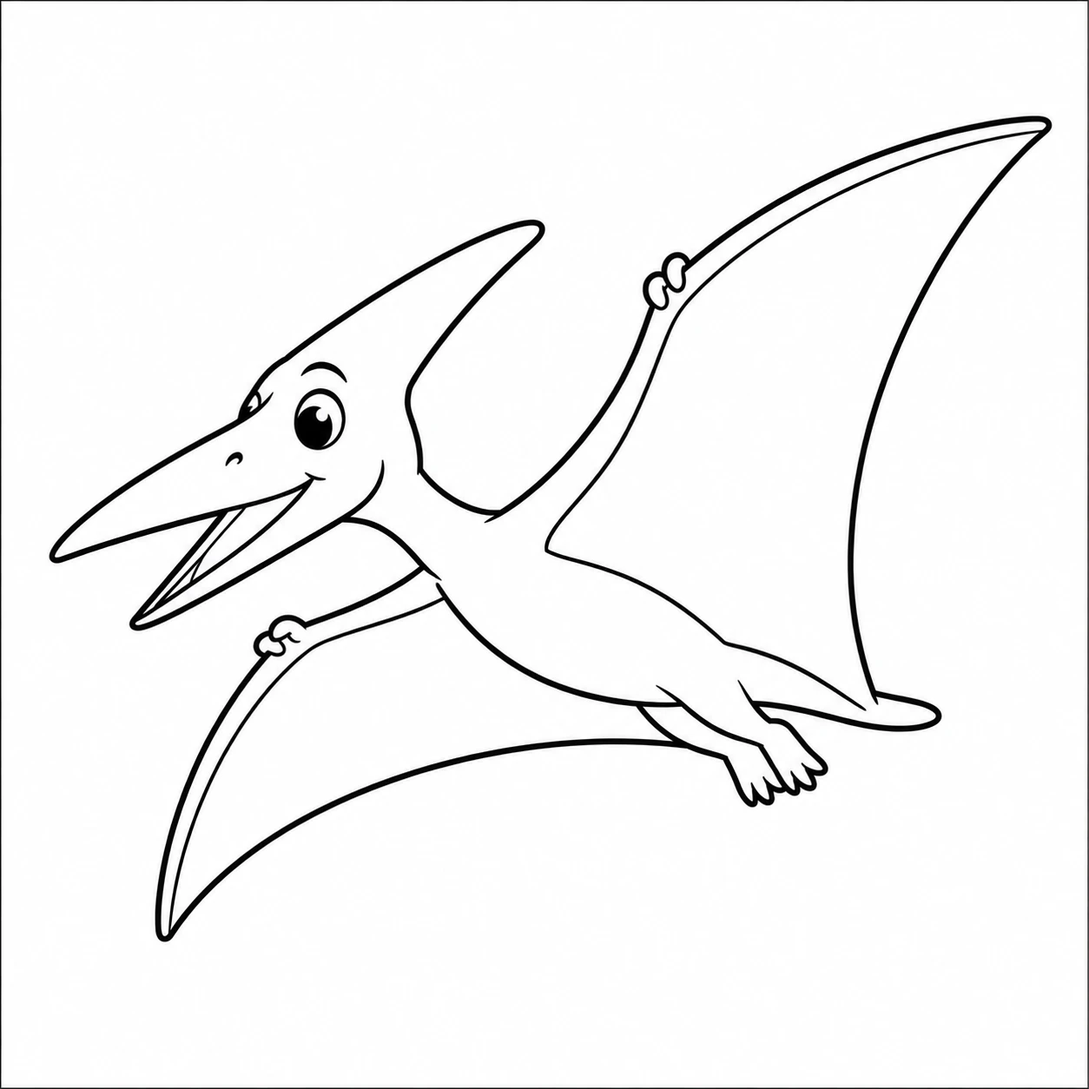
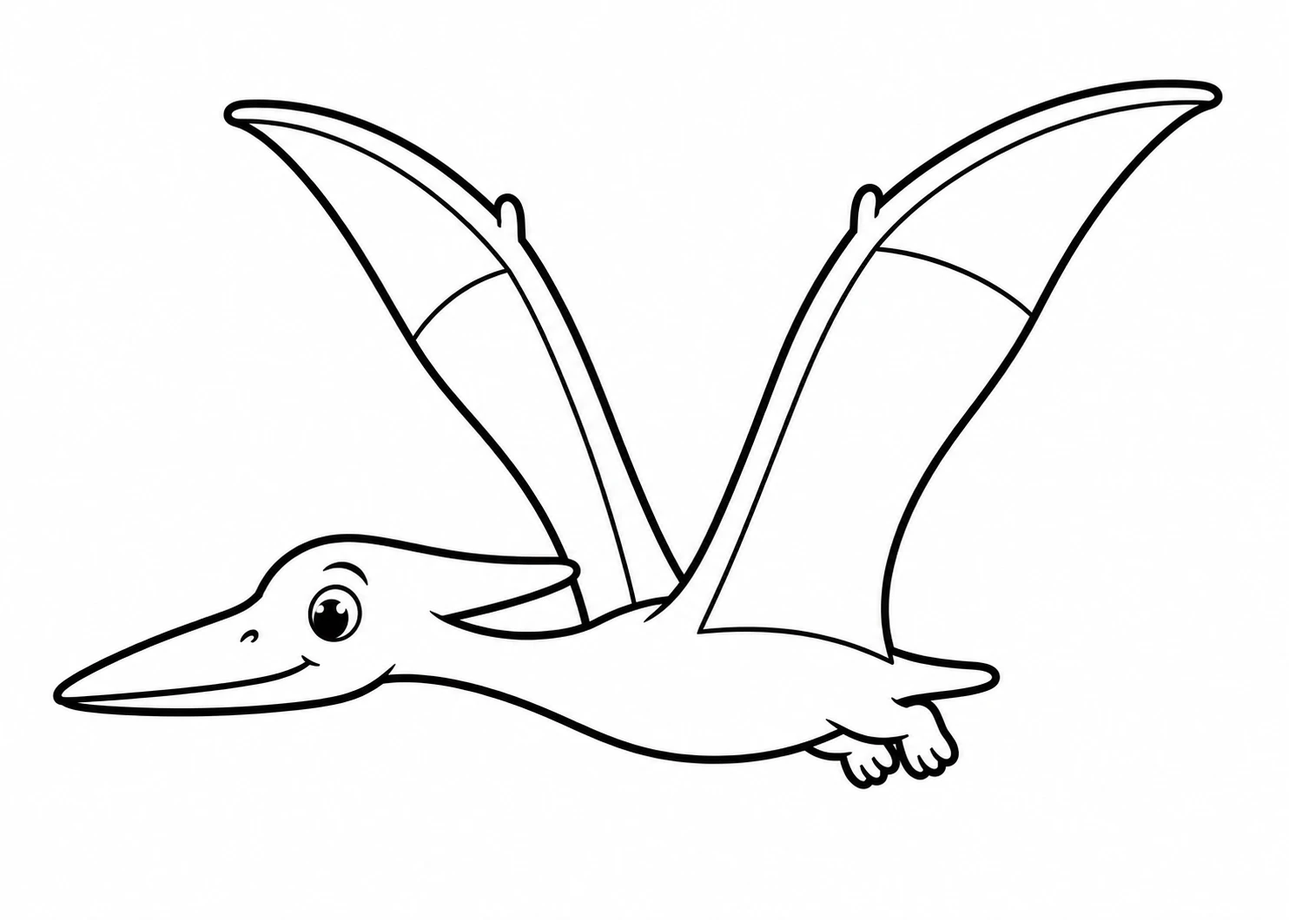
feat(F-511): プテラノドンの翼が開いて、たたむようになった
V字ポーズの台紙をもらえたので、肩の線（y=0.64）で上下に分けて、
上（翼）だけを縦に伸び縮みさせている。

**回さずに伸び縮みさせるのが要点。** 回すと切り目の両側がずれて裂けるが、
伸び縮みは切り目の上が動かないので、どれだけ動かしても開かない。

測ったこと:
- 翼の高さ 95〜120px（±11%）動く。頭と胴は動かない（幅 ±2%）
- 塗れる面積 合計31%（ほかの台紙は31〜52%）
- 四足恐竜との重なり 0.55 → 0.43
- 見分けは39/40。10度傾けたときだけブロントサウルスと入れ替わる
  （6度までは1位。紙をまっすぐ置く運用でしのぐ→リハーサル手順に追記）

判定の道具も直した。塗る場所を「一番大きい区画」で見ていたため、
この良い台紙を誤って落としていた。合計で見るようにした。

Claude-Session: https://claude.ai/code/session_01YQ81wU1rCZHBvuZPBKnxCZ

diff --git a/src/core/templates.generated.ts b/src/core/templates.generated.ts
@@ -23,8 +23,8 @@ export const TEMPLATE_BITS = {
   kurage: '000000000000000000001111111100000000000000000000000000000000000001111111111111100000000000000000000000000000000111111111111111111000000000000000000000000000001111111111111111111100000000000000000000000000011111111111111111111111000000000000000000000000111111111111111111111111100000000000000000000001111111111111111111111111110000000000000000000011111111111111111111111111110000000000000000000011111111111111111111111111111000000000000000000111111111111111111111111111111000000000000000000111111111111111111111111111111100000000000000001111111111111111111111111111111100000000000000001111111111111111111111111111111100000000000000001111111111111111111111111111111100000000000000011111111111111111111111111111111110000000000000011111111111111111111111111111111110000000000000011111111111111111111111111111111110000000000000001111111111111111111111111111111100000000000000000001111111011111111110011111100000000000000000000001110111000111100111011001110000000000000000000001100111000011100111011101110000000000000000000001100111000011100111011101100000000000000000000001110111001011100111011001100000000000000000000001110111010001100110011011100000000000000000000001110111000001100110011011100000000000000000000001110111000101110110011011100000000000000000000001110111000101110110011011100000000000000000000001110111000101110111011101110000000000000000000011100111010101110111011101110000000000000000000111001110000001110111001110111000000000000000001110001110101001110111001110011100000000000000001110011100001001100111000111001100000000000000011100011000000011100111000111001110000000000000011100011000000011100110000111001110000000000000011100011000000011100110000111001110000000000000011100011000000011100110000111001100000000000000011100011100001011100111000110001100000000000000001000011100100011100111000110000000000000000000000000011100100001110011000110000000000000000000000000011000000001110011100110000000000000000000000000111000100001110011100111000000000000000000000000111000101001110011100111000000000000000000000001110000000001110011000011000000000000000000000000110001010001100011000001000000000000000000000000000000000011100000000000000000000000000000000000000000000011100000000000000000000000000000000000000001100011100000000000000000000000000000000000000000000001100000000000000000000000',
   // 07_umigame.png（長辺:短辺 = 1.15 : 1）
   umigame: '000000000000000000000000000000000000000000000000000000000000000000000000000000000000000000000000000000000000000000000000000000000000000000000000000000000000000000000011100000000000000000000000000000000000000000000111111000000000000000000000000000000000000000001111111100000000000000000000000000000000000000001111111100000000000000000000000001100000000000011111111100000000000000000000011111111110000000011111111110000000011111111100111111111111100000011111111110000001111111111111111111111111110000011111111110000011111111111111011111111111111000111111111111000111111111111110000001111111111111111111111111111111111111110000000000011111111111111111111111111111111110000000000000001111111111111111111111111111111100000000000000000111111111111111111111111111110000000000000000000011111111111111111111111111100000000000000000000011111111111111111111111111100000000000000000000011111111111111111111111111110000000000000000000111111111111111111111111111110000000000000000000111111111111111111111111111110000000000000000000111111111111111111111111111110000000000000000000111111111111111111111111111111000000000000000000111111111111111111111111111111000000000000000000111111111111111111111111111111000000000000000000111111111111111111111111111111000000000000000000111111111111111111111111111110000000000000000000111111111111111111111111111110000000000000000000111111111111111111111111111110000000000000000000011111111111111111111111111100000000000000000000111111111111111111111111111100000000000000000011111111111111111111111111111111000000000000000111111111111111111111111111111111110000000000001111111111111111111111111111111111111000000000011111111111111111111111111111111111111100000000011111111001111111111111111111001111111100000000111111110000111111111111111110001111111110000000111111100000001111111111111000000111111110000000111111000000000011111111110000000001111110000000011000000000000001111111000000000000011100000000000000000000000001111111000000000000000000000000000000000000000000111110000000000000000000000000000000000000000000111110000000000000000000000000000000000000000000011100000000000000000000000000000000000000000000001000000000000000000000000000000000000000000000000000000000000000000000000000000000000000000000000000000000000000000000000000000000000000000000000000000000000000000000000',
-  // 11_pteranodon.png（長辺:短辺 = 1.21 : 1）
-  pteranodon: '000000000000000000000000000000000000000000000000000000000000000000000000000000000000000000000000000000000000000000000000000000000000000000000000000000000000000000000000000000000000000000000000000000000000000000000000000000000000000000000111000000000000000000000000000000000000000001111110000000000000000000000000000000000000001111111100000000000000000000000000000000000000111111111000000000000000000000000000000000000011111111111000000000000000000000000011000000000111111111110000000000000000000000011110000000011111111111100000000000000000000000111100000001111111111111100000000000000000000011111000000011111111111111000000000000000000001111110000000001111111111111000000000000000000011111100000000011111111111110000000000000000000111111100000000011111111111110000000000000000011111111000000000111111111111100000000000000000011111110000000000111111111111100000000000000000111111110000000001111111111111100000000000000001111111111000000001111111111111000000000000000111111111111000000011111111111111000000000000011111111111111000000111111111111111000000000000111111111111111100011111111111111111000000000011111111111111111111111111111111111111000000000111100011111100011111111111111111111111000000000100000111110000001111111111111111111111000000000000001111000000001111111111111111111111000000000000001100000000111111111111111111111111000000000000010000001111111111111111111111111111000000000000000000011111111111111111111111111111000000000000000000011111111111111111111111111111000000000000000000111111111111111111111111111111000000000000000001111111111111111111111111111111111000000000000001111111111111111111111111111000111000000000000011111111111111111000000111111100000000000000000011111111111100000000000001111100000000000000000111111111100000000000000000111100000000000000000111111100000000000000000000000000000000000000000111110000000000000000000000000000000000000000001111100000000000000000000000000000000000000000001111000000000000000000000000000000000000000000001110000000000000000000000000000000000000000000001100000000000000000000000000000000000000000000001000000000000000000000000000000000000000000000000000000000000000000000000000000000000000000000000000000000000000000000000000000000000000000000000000000000000000000000000000000000000000000000000000000000000000000000000000000000000000000',
+  // 11_pteranodon.png（長辺:短辺 = 1.65 : 1）
+  pteranodon: '000000000000000000000000000000000000000000000000000000000000000000000000000000000000000000000000000000000000000000000000000000000000000000000000000000000000000000000000000000000000000000000000000000000000000000000000000000000000000000000000000000000000000000000000000000000000000000000000000000000000000000000000000000000000000000000000000000000000000000000000000000000000000000000000000000000000000000000000000000000000000000000000000000000000000000000000000000000000000000001110000000011110000000000000000000000000000011111111000000001111110000000000000000000000001111111100000000000111111000000000000000000000111111111000000000000011111110000000000000000001111111110000000000000001111111100000000000000111111111100000000000000000111111100000000000000111111111100000000000000000111111110000000000001111111111000000000000000000011111110000000000011111111110000000000000000000001111111000000000011111111110000000000000000000001111111000000000111111111100000000000000000000000111111100000000111111111100000000000000000000000111111100000001111111111000000000000000000000000011111110000001111111110000000000000000000000000001111110000001111111110000000000000000000000000000111110000011111111100000000000000000000000000000011111000011111111000000000000000000000000000000011111000011111111000000000000000000000000000000001111100111111110000000000000000000000011111000001111100111111110000000000000000000000111111111111111111111111110000000000000000000001111111111111111111111111100000000000000000000111111111111111111111111111100000000000000000011111111111111111111111111111100000000000000001111111111111111111111111111111111110000000000111111111111100001111111111111111111110000000000001111110000000000001111111111111111000000000000000000000000000000000011111111111111100000000000000000000000000000000000001100001111100000000000000000000000000000000000000000000100000000000000000000000000000000000000000000000000000000000000000000000000000000000000000000000000000000000000000000000000000000000000000000000000000000000000000000000000000000000000000000000000000000000000000000000000000000000000000000000000000000000000000000000000000000000000000000000000000000000000000000000000000000000000000000000000000000000000000000000000000000000000000000000000000000000000000000000000000000000000000000000000000000000000',
   // 12_ankylosaurus.png（長辺:短辺 = 2.11 : 1）
   ankylosaurus: '000000000000000000000000000000000000000000000000000000000000000000000000000000000000000000000000000000000000000000000000000000000000000000000000000000000000000000000000000000000000000000000000000000000000000000000000000000000000000000000000000000000000000000000000000000000000000000000000000000000000000000000000000000000000000000000000000000000000000000000000000000000000000000000000000000000000000000000000000000000000000000000000000000000000000000000000000000000000000000000000000000000000000000000000000000000000000000000000000000000000000000000000000000000000000000000000000000000000000000000000000000000000000000000000000000000000000001000111000100000000000000000000000000000000000011111111111110000000000000000000000000000000010111111111111111110000000000000000000000000000111111111111111111110000000000000000000000000011111111111111111111111110000000000000000000000111111111111111111111111110000000000000000000011111111111111111111111111111100000000000000001111111111111111111111111111111100000000000000011111111111111111111111111111111111000000000000111111111111111111111111111111111111000000000001111111111111111111111111111111111111100011110011111111111111111111111111111111111111111111111111111111111111111111111111111111111111111111111111111111111111111111111111111111111111111111111111111111111111111111111111111111111111111111111011111111111111111111111111111110000001110111110001110001111111111111111111111111000000000011100000000001111101111110111110111111000000000000000000000011111001111110111110011111000000000000000000000011111001111101111110111111000000000000000000000011110011111100000000111111000000000000000000000000000011111100000000011110000000000000000000000000000000000000000000000000000000000000000000000000000000000000000000000000000000000000000000000000000000000000000000000000000000000000000000000000000000000000000000000000000000000000000000000000000000000000000000000000000000000000000000000000000000000000000000000000000000000000000000000000000000000000000000000000000000000000000000000000000000000000000000000000000000000000000000000000000000000000000000000000000000000000000000000000000000000000000000000000000000000000000000000000000000000000000000000000000000000000000000000000000000000000000000000000000000000000000000000000000000000000000000000000000000000000000',
   // 13_brontosaurus.png（長辺:短辺 = 1.14 : 1）

diff --git a/src/core/templates.ts b/src/core/templates.ts
@@ -195,12 +195,24 @@ export interface Box {
 export interface SpritePart {
   /** 元画像の中の切り出す範囲 */
   readonly box: Box
-  /** 回す軸。`swing` が 0 のときは使わない */
+  /** 回す（伸び縮みさせる）軸。`swing` も `lift` も 0 のときは使わない */
   readonly pivot: { readonly x: number; readonly y: number }
-  /** 振れ幅（ラジアン）。0 なら動かさない */
+  /** 振れ幅（ラジアン）。0 なら回さない */
   readonly swing: number
   /** 拍のずれ（0〜1）。前足と後ろ足を逆に動かすのに使う */
   readonly beat: number
+  /**
+   * 伸び縮みの幅（倍率のふり幅）。0 なら伸縮しない。
+   *
+   * **回すのとは別の動かし方。** 回すと切り目の両側がずれて裂けるが、
+   * 伸び縮みは**切り目そのものが動かない**ので、どれだけ動かしても開かない。
+   * 軸の線上の画素は動かず、そこから離れるほど大きく動く。
+   *
+   * プテラノドンの翼はこれで開閉する。翼は胴とつながっていて回せないため。
+   */
+  readonly lift?: number
+  /** 伸び縮みさせる向き。既定は縦（`y`）。紙を回して置いたときに入れ替わる */
+  readonly liftAxis?: 'x' | 'y'
 }
 
 const KAME_SIDE = 0.19
@@ -285,8 +297,42 @@ function walkerParts(
   ]
 }
 
+/**
+ * プテラノドン: **翼を開いて、たたむ。**
+ *
+ * 肩の線で上下に分け、上（翼）だけを縦に伸び縮みさせる。
+ * 回さないのは、翼が胴とつながっていて**回すと必ず裂ける**ため（R-037）。
+ * 伸び縮みは切り目の上で連続しているので、裂けようがない。
+ *
+ * 線の位置は台紙を測って決めた。**この高さより上には翼しか無い**
+ *（頭の上端は 0.66、翼だけが横切るのは 0.64 まで）。
+ * 頭・胴・尾は下側に入るので、伸び縮みしても形が変わらない。
+ */
+const PTERA_SHOULDER = 0.64
+const PTERA_LIFT = 0.22
+
+const PTERA_PARTS: readonly SpritePart[] = [
+  // 翼（肩より上）。軸は肩の線
+  {
+    box: { x: 0, y: 0, w: 1, h: PTERA_SHOULDER },
+    pivot: { x: 0.5, y: PTERA_SHOULDER },
+    swing: 0,
+    beat: 0,
+    lift: PTERA_LIFT,
+    liftAxis: 'y',
+  },
+  // 頭と胴（肩より下）。動かさない
+  {
+    box: { x: 0, y: PTERA_SHOULDER, w: 1, h: 1 - PTERA_SHOULDER },
+    pivot: { x: 0.5, y: PTERA_SHOULDER },
+    swing: 0,
+    beat: 0,
+  },
+]
+
 export const PARTITION: Partial<Record<SpeciesId, readonly SpritePart[]>> = {
   umigame: KAME_PARTS,
+  pteranodon: PTERA_PARTS,
   /*
    * 数字は台紙を**余白を詰めた状態**で測って決めた（取り込んだ絵と同じ状態）。
    * 腹の下端 = 腰の線。前後の切り目は、足元の列を数えて**空いている列**に置いた。
@@ -306,9 +352,11 @@ function mirrorPart(part: SpritePart): SpritePart {
   return {
     box: { ...part.box, x: 1 - part.box.x - part.box.w },
     pivot: { x: 1 - part.pivot.x, y: part.pivot.y },
-    // 鏡に映すと回る向きも逆になる
+    // 鏡に映すと回る向きも逆になる。伸び縮みは向きを持たないのでそのまま
     swing: -part.swing,
     beat: part.beat,
+    lift: part.lift,
+    liftAxis: part.liftAxis,
   }
 }
 
@@ -319,6 +367,9 @@ function turnBackPart(part: SpritePart): SpritePart {
     pivot: { x: part.pivot.y, y: 1 - part.pivot.x },
     swing: part.swing,
     beat: part.beat,
+    lift: part.lift,
+    // 絵を90度まわすと、縦の伸び縮みは横の伸び縮みになる
+    liftAxis: part.lift ? ((part.liftAxis ?? 'y') === 'y' ? 'x' : 'y') : part.liftAxis,
   }
 }
 

diff --git a/src/renderer/Aquarium.tsx b/src/renderer/Aquarium.tsx
@@ -22,7 +22,7 @@ import {
 } from '../core/undulate'
 import { headIsKnown, rigIsUsable, type CreatureKind } from '../core/rig'
 import { partsForPiece, speciesFlies } from '../core/templates'
-import { FLAP_SPEED, flapSquash, flapStretch, glideTilt } from '../core/behaviour'
+import { FLAP_SPEED, glideTilt } from '../core/behaviour'
 
 /**
  * 手足を漕ぐ速さ（ラジアン/秒）。
@@ -271,18 +271,17 @@ export function Aquarium({
           !turnsToHeading && headKnown && place.facingRight !== (swimmer.piece.rig?.headsRight ?? true)
 
         /*
-         * 飛ぶ絵（プテラノドン）の羽ばたき。**絵を切らずに、縦へ縮めて横へ広げる。**
-         * 翼を矩形で切って回すと、この台紙では裂ける（R-037・R-038）。
+         * 飛ぶ絵（プテラノドン）は、機体ごと少しだけ傾ける。
          *
-         * **魚のしなりは掛けない**（下の描き分けで1枚のまま描く）。
-         * しなりが乗っていたときは顔がなびき、翼の動きがその中に埋もれていた。
+         * **翼そのものは下の分割で開閉する**（`PARTITION.pteranodon`）。
+         * 以前はここで絵全体を縦へ縮めていたが、頭も嘴も縮むので
+         * 「翼が動いた」ではなく「絵が潰れた」に見えた（R-039）。
+         * 台紙を V 字ポーズに描き直せたので、その方法は要らなくなった。
          */
-        const flapping = flying && swayRef.current > 0
-        const flapTime = elapsed * FLAP_SPEED * swimmer.beat.rate + swimmer.beat.phase
-        if (flapping) context.rotate(glideTilt(flapTime))
-        const squash = flapping ? flapSquash(flapTime) : 1
-        const stretch = flapping ? flapStretch(flapTime) : 1
-        context.scale(mirror ? -scale * stretch : scale * stretch, scale * squash)
+        if (flying && swayRef.current > 0) {
+          context.rotate(glideTilt(elapsed * FLAP_SPEED * swimmer.beat.rate + swimmer.beat.phase))
+        }
+        context.scale(mirror ? -scale : scale, scale)
 
         const sway = swayRef.current
         const strips = stripCount(sway)
@@ -305,16 +304,23 @@ export function Aquarium({
           const sourceHeight = swimmer.element.naturalHeight
           const time = elapsed * swimmer.beat.rate * LIMB_SPEED
           for (const part of limbs) {
-            const angle =
-              part.swing === 0
-                ? 0
-                : part.swing * sway * Math.sin(time + part.beat * Math.PI * 2 + swimmer.beat.phase)
+            const wave = Math.sin(time + part.beat * Math.PI * 2 + swimmer.beat.phase)
+            const angle = part.swing === 0 ? 0 : part.swing * sway * wave
+            /*
+             * 伸び縮み（プテラノドンの翼）。**回すのとは別の動かし方。**
+             * 軸の線上は動かないので、隣の帯との継ぎ目が開かない。
+             */
+            const lift = part.lift ? 1 + part.lift * sway * wave : 1
             context.save()
-            if (angle !== 0) {
+            if (angle !== 0 || lift !== 1) {
               const pivotX = left + place.width * part.pivot.x
               const pivotY = top + place.height * part.pivot.y
               context.translate(pivotX, pivotY)
-              context.rotate(angle)
+              if (angle !== 0) context.rotate(angle)
+              if (lift !== 1) {
+                const sideways = part.liftAxis === 'x'
+                context.scale(sideways ? lift : 1, sideways ? 1 : lift)
+              }
               context.translate(-pivotX, -pivotY)
             }
             context.drawImage(

diff --git a/src/core/__tests__/templates.test.ts b/src/core/__tests__/templates.test.ts
@@ -338,3 +338,53 @@ describe('恐竜の足の分割', () => {
     }
   })
 })
+
+describe('プテラノドンの翼', () => {
+  /*
+   * 翼は**回さずに伸び縮みさせる**。回すと切り目の両側がずれて裂けるため（R-037）。
+   * 伸び縮みなら切り目の上が動かないので、どれだけ動かしても開かない。
+   */
+  it('回さずに伸び縮みする', () => {
+    const parts = partsForPiece('pteranodon')
+    expect(parts).toHaveLength(2)
+    for (const part of parts) expect(part.swing).toBe(0)
+    const moving = parts.filter((part) => (part.lift ?? 0) !== 0)
+    expect(moving).toHaveLength(1)
+    expect(moving[0].lift).toBeGreaterThan(0.1)
+  })
+
+  it('絵の全面を覆う', () => {
+    const parts = partsForPiece('pteranodon')
+    for (let row = 0; row < 48; row++) {
+      for (let column = 0; column < 48; column++) {
+        const x = (column + 0.5) / 48
+        const y = (row + 0.5) / 48
+        const covered = parts.some(
+          (part) =>
+            x >= part.box.x &&
+            x < part.box.x + part.box.w &&
+            y >= part.box.y &&
+            y < part.box.y + part.box.h,
+        )
+        expect(covered, `(${x.toFixed(2)}, ${y.toFixed(2)}) が抜けている`).toBe(true)
+      }
+    }
+  })
+
+  /*
+   * 動く帯の軸は、動かない帯との**境目**に置く。
+   * ここがずれると、伸び縮みしたときに境目が開く。
+   */
+  it('伸び縮みの軸が、上下の境目にある', () => {
+    const [wing, body] = partsForPiece('pteranodon')
+    expect(wing.pivot.y).toBeCloseTo(wing.box.y + wing.box.h)
+    expect(wing.pivot.y).toBeCloseTo(body.box.y)
+  })
+
+  it('紙を90度まわして置くと、伸び縮みの向きも変わる', () => {
+    const upright = partsForPiece('pteranodon', 0, false).find((part) => part.lift)
+    const turned = partsForPiece('pteranodon', 1, false).find((part) => part.lift)
+    expect(upright?.liftAxis ?? 'y').toBe('y')
+    expect(turned?.liftAxis).toBe('x')
+  })
+})

diff --git a/tools/check-cut.py b/tools/check-cut.py
@@ -15,8 +15,13 @@
 
 1. **切れる線があるか** — 縦・横それぞれで、絵を一番横切らない線がどれだけ横切るか。
    0% なら、そこで切っても裂けない。10% を超えるなら、その方向には切れない。
-2. **塗る場所が残っているか** — 一番大きい「塗れる区画」が絵全体の何割か。
-   ほかの台紙は 27〜31%。**8% まで落ちると塗り絵として成立しない**（R-038）。
+2. **塗る場所が残っているか** — 線の内側の白の**合計**が絵全体の何割か。
+   ほかの台紙は 31〜52%。**12% まで落ちると塗り絵として成立しない**（R-038）。
+
+   **一番大きい区画の広さで判断しないこと。** 区画が細かく分かれている絵は
+   一番大きい区画が小さくなるが、塗る場所が減ったわけではない（むしろ
+   塗り分けやすい）。実際、この道具の最初の版は「一番大きい区画」で見ていて、
+   良い台紙（合計 31%・最大 12%）を「狭すぎる」と誤って落とした。
 3. **輪郭が閉じているか** — 内側の面積 ÷ 線の面積。2.0 未満は線が切れている疑い。
 """
 import sys
@@ -31,8 +36,8 @@ INK = 140
 OUTSIDE = 128
 # 切る線として使える上限（絵をこれ以上横切るなら、その方向には切れない）
 CUT_LIMIT = 0.10
-# 塗れる区画の下限（ほかの台紙は 0.27〜0.31）
-PAINT_LIMIT = 0.20
+# 塗れる面積（合計）の下限。ほかの台紙は 0.31〜0.52
+PAINT_LIMIT = 0.22
 
 
 def load(path, side=800):
@@ -66,6 +71,12 @@ def regions(filled, ink):
     sizes = ndimage.sum(white, labels, range(1, count + 1))
     total = filled.shape[0] * filled.shape[1]
     return sorted((size / total for size in sizes), reverse=True)
+
+
+def paint_total(filled, ink):
+    """線の内側の白の合計。**塗れる場所の量はこちらで見る。**"""
+    white = filled & ~ink.astype(bool)
+    return white.sum() / (filled.shape[0] * filled.shape[1])
 
 
 def best_cuts(filled):
@@ -128,13 +139,14 @@ def main() -> int:
 
         cuts = best_cuts(filled)
         paint = regions(filled, ink)
+        total_paint = paint_total(filled, ink)
         closed = filled.sum() / max(1, ink.sum())
 
         print(f'\n{path.name}  {width}x{height}  比 {width / height:.2f} : 1')
         print(f'  輪郭      内側/線 = {closed:.1f}' + ('' if closed >= 2.0 else '   ← 線が切れている疑い'))
         print(
-            f'  塗れる区画 一番大きいもの {paint[0] * 100:.0f}%'
-            + ('' if paint[0] >= PAINT_LIMIT else f'   ← 狭すぎる（{PAINT_LIMIT * 100:.0f}% 以上ほしい）')
+            f'  塗れる面積 合計 {total_paint * 100:.0f}%（一番大きい区画 {paint[0] * 100:.0f}%）'
+            + ('' if total_paint >= PAINT_LIMIT else f'   ← 狭すぎる（{PAINT_LIMIT * 100:.0f}% 以上ほしい）')
         )
         usable = [cut for cut in cuts if cut[3] <= CUT_LIMIT]
         import math
@@ -149,7 +161,7 @@ def main() -> int:
         if not usable:
             print('  → **この絵は切れない。** 手足だけを動かすことはできない')
 
-        if closed < 2.0 or paint[0] < PAINT_LIMIT:
+        if closed < 2.0 or total_paint < PAINT_LIMIT:
             worst = 1
 
     print('\n※ 切れなくても台紙としては使える（動かさなければよい）。')

diff --git a/tools/check-templates.py b/tools/check-templates.py
@@ -27,6 +27,10 @@ from PIL import Image, ImageDraw
 # 調べるときの長辺の上限（速さのため）
 MAX_SIDE = 1000
 # 升目の細かさ。match.ts の既定と合わせる
+# `--verbose` で、変形の1つ1つの結果を出す。
+# どの程度のゆがみで入れ替わるのかが分からないと、直すべきか判断できない
+VERBOSE = '--verbose' in sys.argv
+
 GRID = 48
 # これより暗ければ線とみなす
 INK_LEVEL = 140
@@ -256,6 +260,10 @@ def main():
             scores.sort(reverse=True)
             total += 1
             mine = next(score for score, who in scores if who == name)
+            if VERBOSE:
+                flag = '' if scores[0][1] == name else f'   ← {scores[0][1]} と判定'
+                print(f'    傾き{angle:+3d}° 横×{scale_x} 縦×{scale_y}  '
+                      f'自分 {mine:.2f}  1位 {scores[0][1]} {scores[0][0]:.2f}{flag}')
             rival, rival_name = next((score, who) for score, who in scores if who != name)
             margins.append(mine - rival)
             if scores[0][1] != name:

diff --git a/docs/機能要項.md b/docs/機能要項.md
@@ -121,7 +121,7 @@
 | F-504 | そのテーマの絵が0枚のときの案内 | ✅ | `src/renderer/App.tsx` |
 | F-509 | 恐竜テーマの台紙（5種・照合はテーマの中だけ） | ✅ | `src/core/templates.ts` / `assets/templates/dinosaur/` |
 | F-510 | 恐竜が**足を動かして歩く**（前足の組と後ろ足の組を逆の拍で振る） | ✅ | `src/core/templates.ts` の `PARTITION` |
-| F-511 | プテラノドンが**空を飛び、羽ばたく**（絵は切らず、全体を縦へ縮めて横へ広げる） | ✅ | `src/core/behaviour.ts` の `flapSquash` / `motion.ts` |
+| F-511 | プテラノドンが**空を飛び、翼を開いてたたむ**（肩で分けて縦に伸び縮み） | ✅ | `src/core/templates.ts` の `PARTITION.pteranodon` |
 | F-505 | 宇宙テーマ | ⬜ | 動きは水族館と同じ（float）ので背景のみ |
 | F-506 | 森・草原テーマ（舞う動き） | ⬜ | `flutter` 未実装 |
 | F-507 | 夜空テーマ（昇る動き） | ⬜ | `rise` 未実装 |
@@ -144,6 +144,12 @@
   切りやすい台紙に作り直す案は**やめた**。塗る場所が 8% しか残らず、
   塗り絵として成立しなかった（R-038）。
   あわせて、飛ぶ絵は地平線より上だけを飛び、足元の影を付けないようにした。
+- 2026-08-24 F-511: **プテラノドンの翼が開いて、たたむようになった**。
+  台紙をV字ポーズ（翼を背中の上へ持ち上げた横向き）に描き直してもらい、
+  **肩の線（y=0.64）で上下に分けて、上だけを縦に伸び縮み**させている。
+  回すと裂けるので回さない。伸び縮みは切り目の上が動かないので開かない。
+  実測で翼の高さは 95〜120px（±11%）動き、頭と胴は動いていない（幅 ±2%）。
+  四足恐竜との重なりも 0.55 → 0.43 に下がった。
 - 2026-08-24 F-509 / F-510: **恐竜の台紙5種を照合につなぎ、足を動かして歩くようにした**。
   照合は**テーマの中だけ**に閉じた（混ぜるとまる魚がトリケラトプスになりうる）。
   足は前後2組に分けて逆の拍で振る。切り目は台紙の足元を測って**空いている列**に置いた。

diff --git a/docs/開発規則.md b/docs/開発規則.md
@@ -734,6 +734,9 @@
 
 | MM-DD | 事象 | 原因 | 対処/規則ID |
 |---|---|---|---|
+| 08-24 | **回さずに伸び縮みさせれば、切っても裂けない**と分かった | 回すと切り目の両側がずれるが、伸び縮みは切り目の上が動かない。プテラノドンの翼はこれで開閉している | F-511 |
+| 08-24 | 判定の道具が、良い台紙を「塗る場所が狭い」と誤って落とした | 「一番大きい区画」で見ていた。区画が細かく分かれた絵は最大が小さくなるが、塗る場所は減っていない。**合計**で見るよう直した（31%・最大12%の台紙を落としていた） | `tools/check-cut.py` |
+| 08-24 | 新しいプテラノドンは10度傾けるとブロントサウルスと入れ替わる | 6度までは1位。スキャナはまっすぐ通すので通常は起きない。**紙をまっすぐ置く**運用でしのぐ | `docs/リハーサル手順.md` |
 | 08-24 | **羽ばたきを消したのは早とちりだった** | 「羽ばたいて見えない」の原因はしなりの重なりで、縮みそのものではなかった。しなりを外したら見えるようになったので、縮み（±10%）を戻した | R-039 |
 | 08-24 | **プテラノドンの顔がなびいていた**（会場向けの見た目として不自然） | 飛ぶ絵にも魚の「しなり」（胴を波打たせる処理）を掛けていた。しなりは水を押す動きなので、体の硬い生き物に掛けると旗のはためきにしか見えない。飛ぶ絵は1枚のまま描くようにした | `Aquarium.tsx` |
 | 08-24 | 縦に縮める羽ばたきを外し、傾きだけの滑空にした | 縮めると頭も縮む（R-039）。傾きは絵の形を変えないので、どこも歪まない | R-039 |

diff --git a/docs/設計-恐竜の台紙.md b/docs/設計-恐竜の台紙.md
@@ -204,7 +204,24 @@ python3 tools/check-templates.py assets/templates
 
 ---
 
-## プテラノドンの台紙を作り直す・2回目（V字ポーズ／2026-08-24 決定）
+## プテラノドンの台紙を作り直す・2回目（V字ポーズ／2026-08-24 **採用**）
+
+> **結果: 採用した。** もらった絵で翼の開閉ができるようになった。
+>
+> | 測ったところ | 結果 |
+> |---|---|
+> | 塗れる面積（合計） | **31%**（ブロントサウルス 32%・旧プテラノドン 34% と同じくらい） |
+> | 輪郭 | 閉じている（内側/線 = 5.5） |
+> | 四足恐竜との重なり | **0.36〜0.43**（前は 0.55。合格の目安 0.55 未満） |
+> | 見分けの試験 | 39/40。**10度傾けたときだけ**ブロントサウルスと入れ替わる（差 −0.05） |
+> | 肩の線 | **y=0.64 より上には翼しか無い**（頭の上端は 0.66）→ ここで切れる |
+>
+> **10度の傾きだけが弱点。** スキャナは紙をまっすぐ通すので通常は起きないが、
+> 極端に斜めに置くと歩く恐竜として判定される（飛ばなくなる）。
+> 6度までは問題ない（0.56 で1位）。
+>
+> 翼は**回さずに縦へ伸び縮み**させている。回すと切り目の両側がずれて裂けるが、
+> 伸び縮みなら切り目の上が動かないので開かない（`PARTITION.pteranodon`）。
 
 ### 1回目（翼を水平に）が失敗した理由
 

diff --git a/docs/リハーサル手順.md b/docs/リハーサル手順.md
@@ -95,6 +95,7 @@ exe を手に入れる。**GitHub から落とすのが早い**（PCに何も入
 | **ファイル名** | **通し番号（リセットしない）** | 同じ名前＋同じ大きさは**二重取り込みとみなして黙って捨てる**。毎日 `img001` に戻る設定だと、絵が静かに消える |
 | **地色除去（背景除去）** | **入**（あれば） | 紙の色が飛んで切り抜きが安定する |
 | **原稿カバー** | **必ず閉じる** | 開けたままだと周囲が真っ黒に写り、**絵より大きい黒い塊**として泳ぐ |
+| **紙の置き方** | **端に合わせてまっすぐ** | 大きく斜め（10度ほど）に置くと、台紙の見分けを外すことがある。プテラノドンが**飛ばずに歩く**（実測: 6度までは問題なし） |
 | **自動傾き補正** | 入 | 照合（台紙の見分け）の余裕が増える |
 
 **合格**: 紙を1枚スキャンすると、アプリを触らずに数秒で泳ぎ出す。
